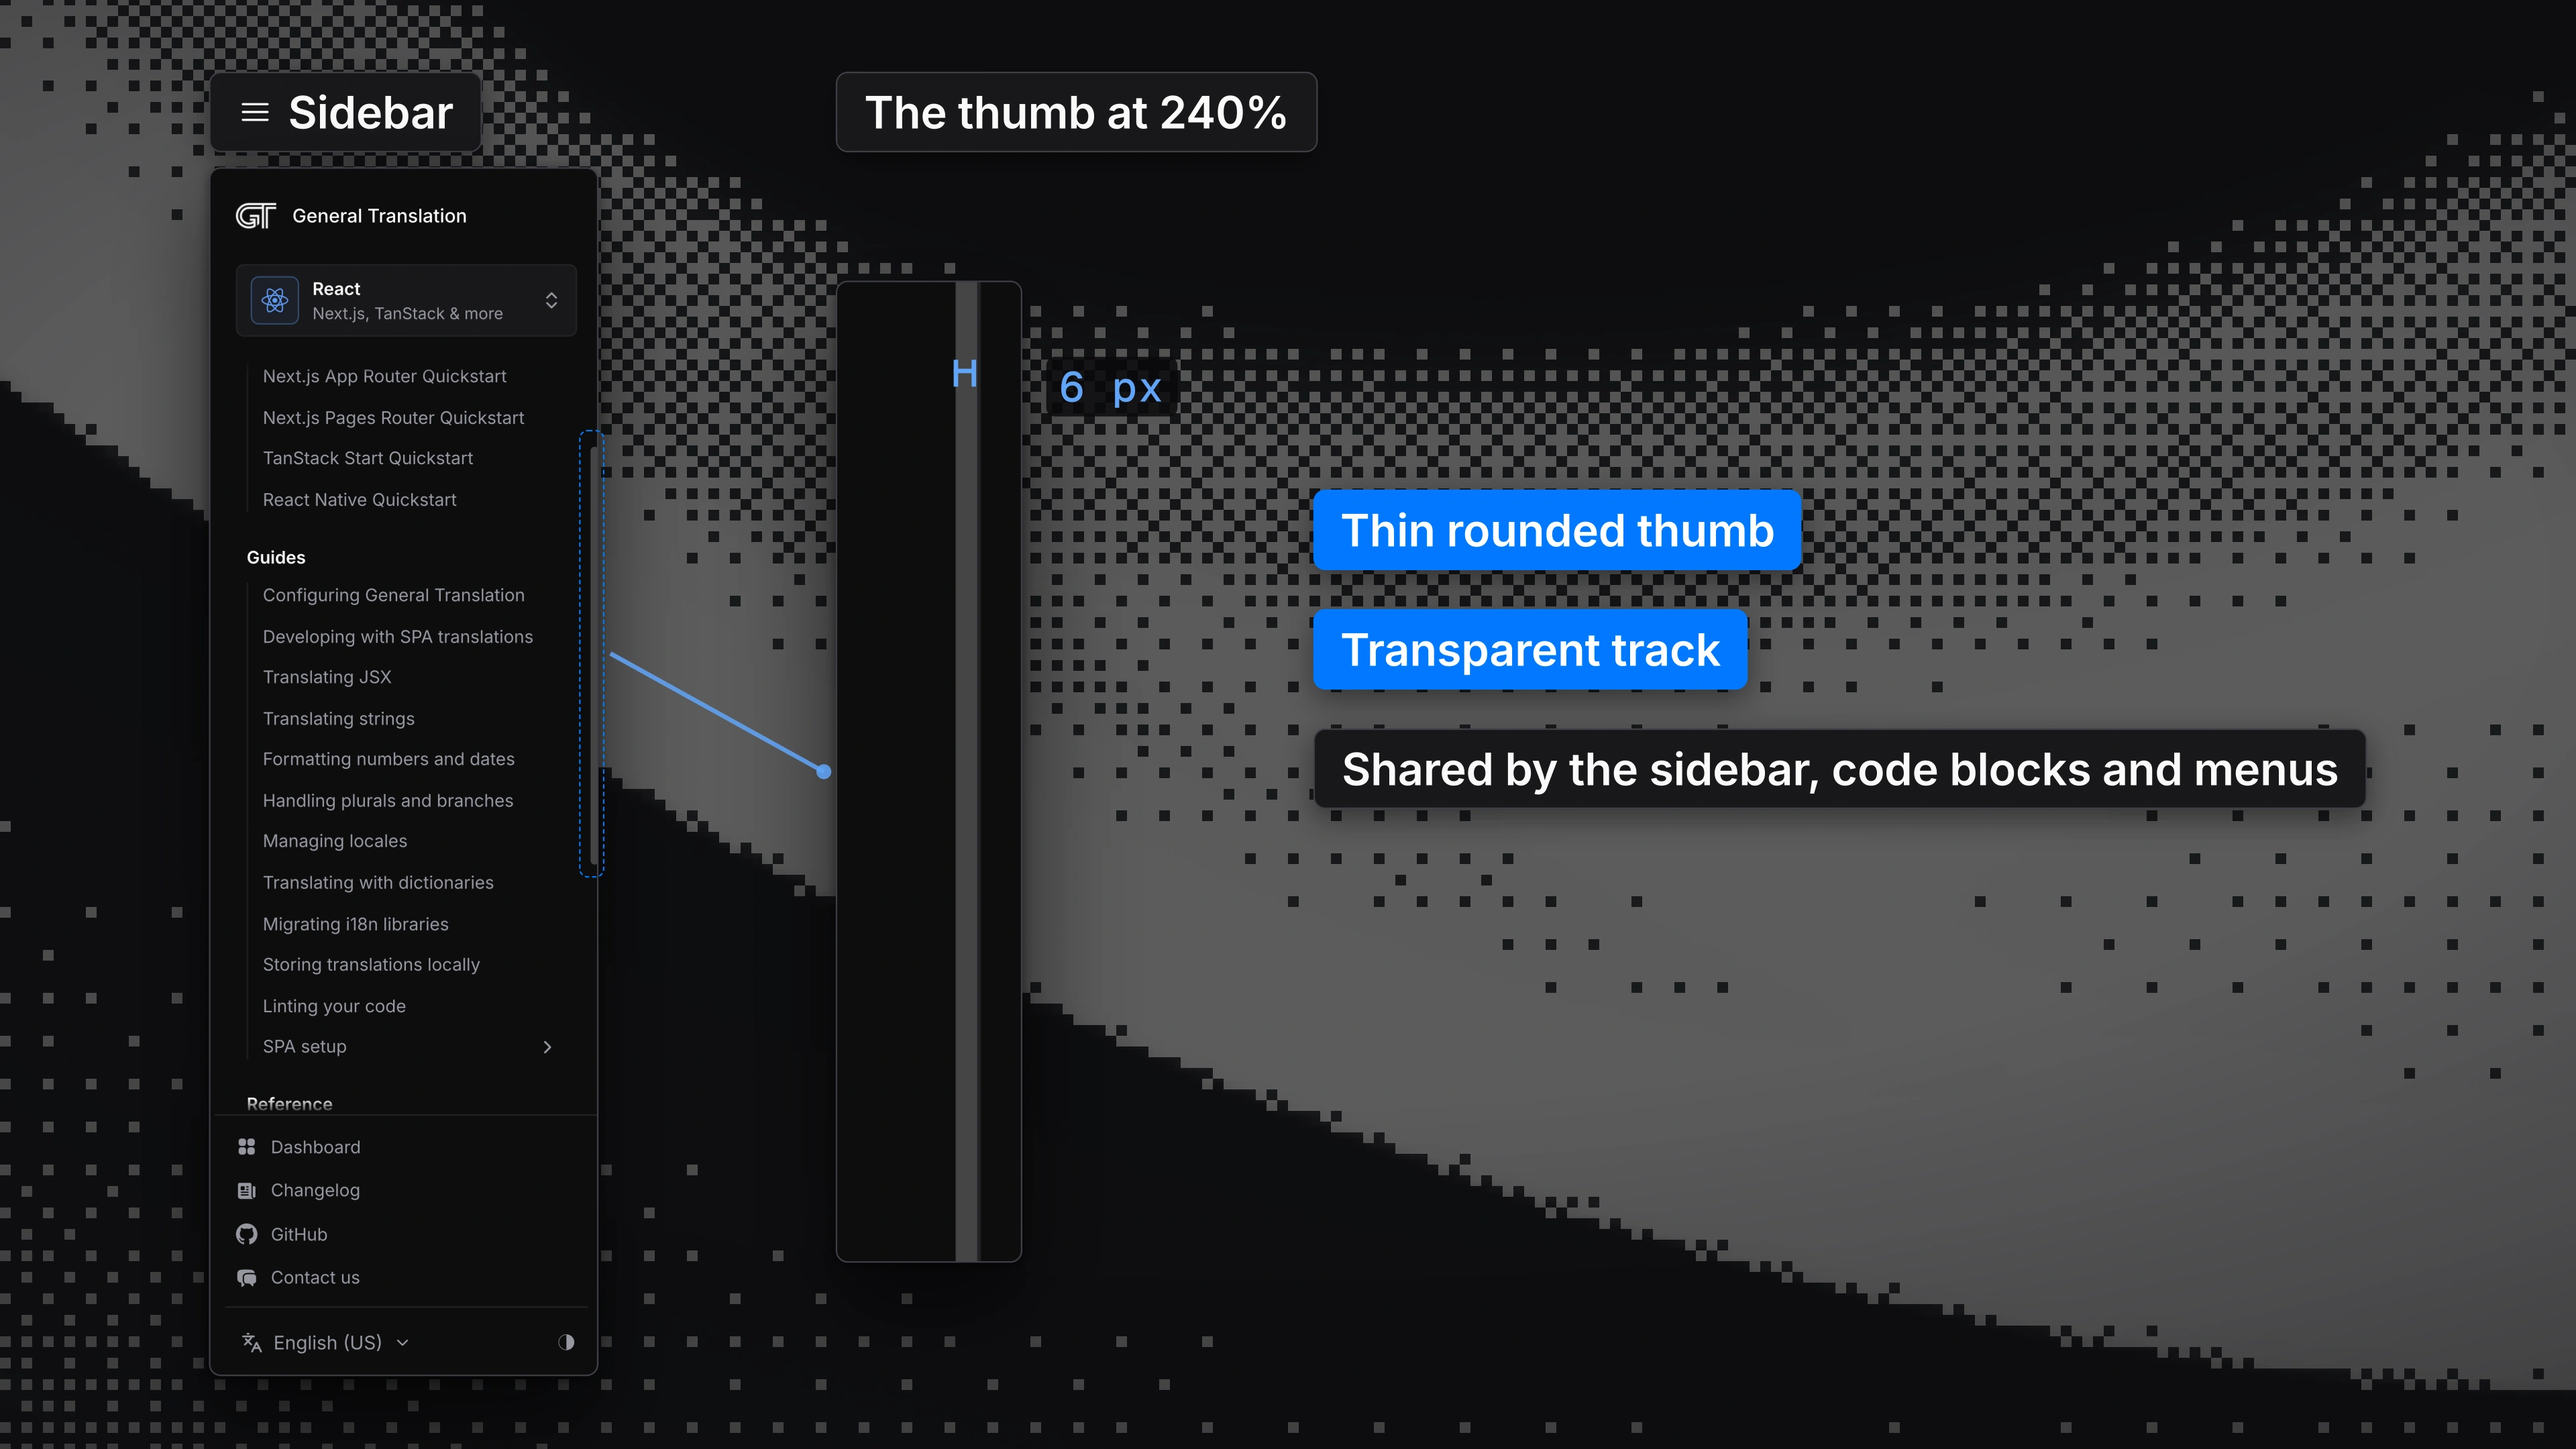
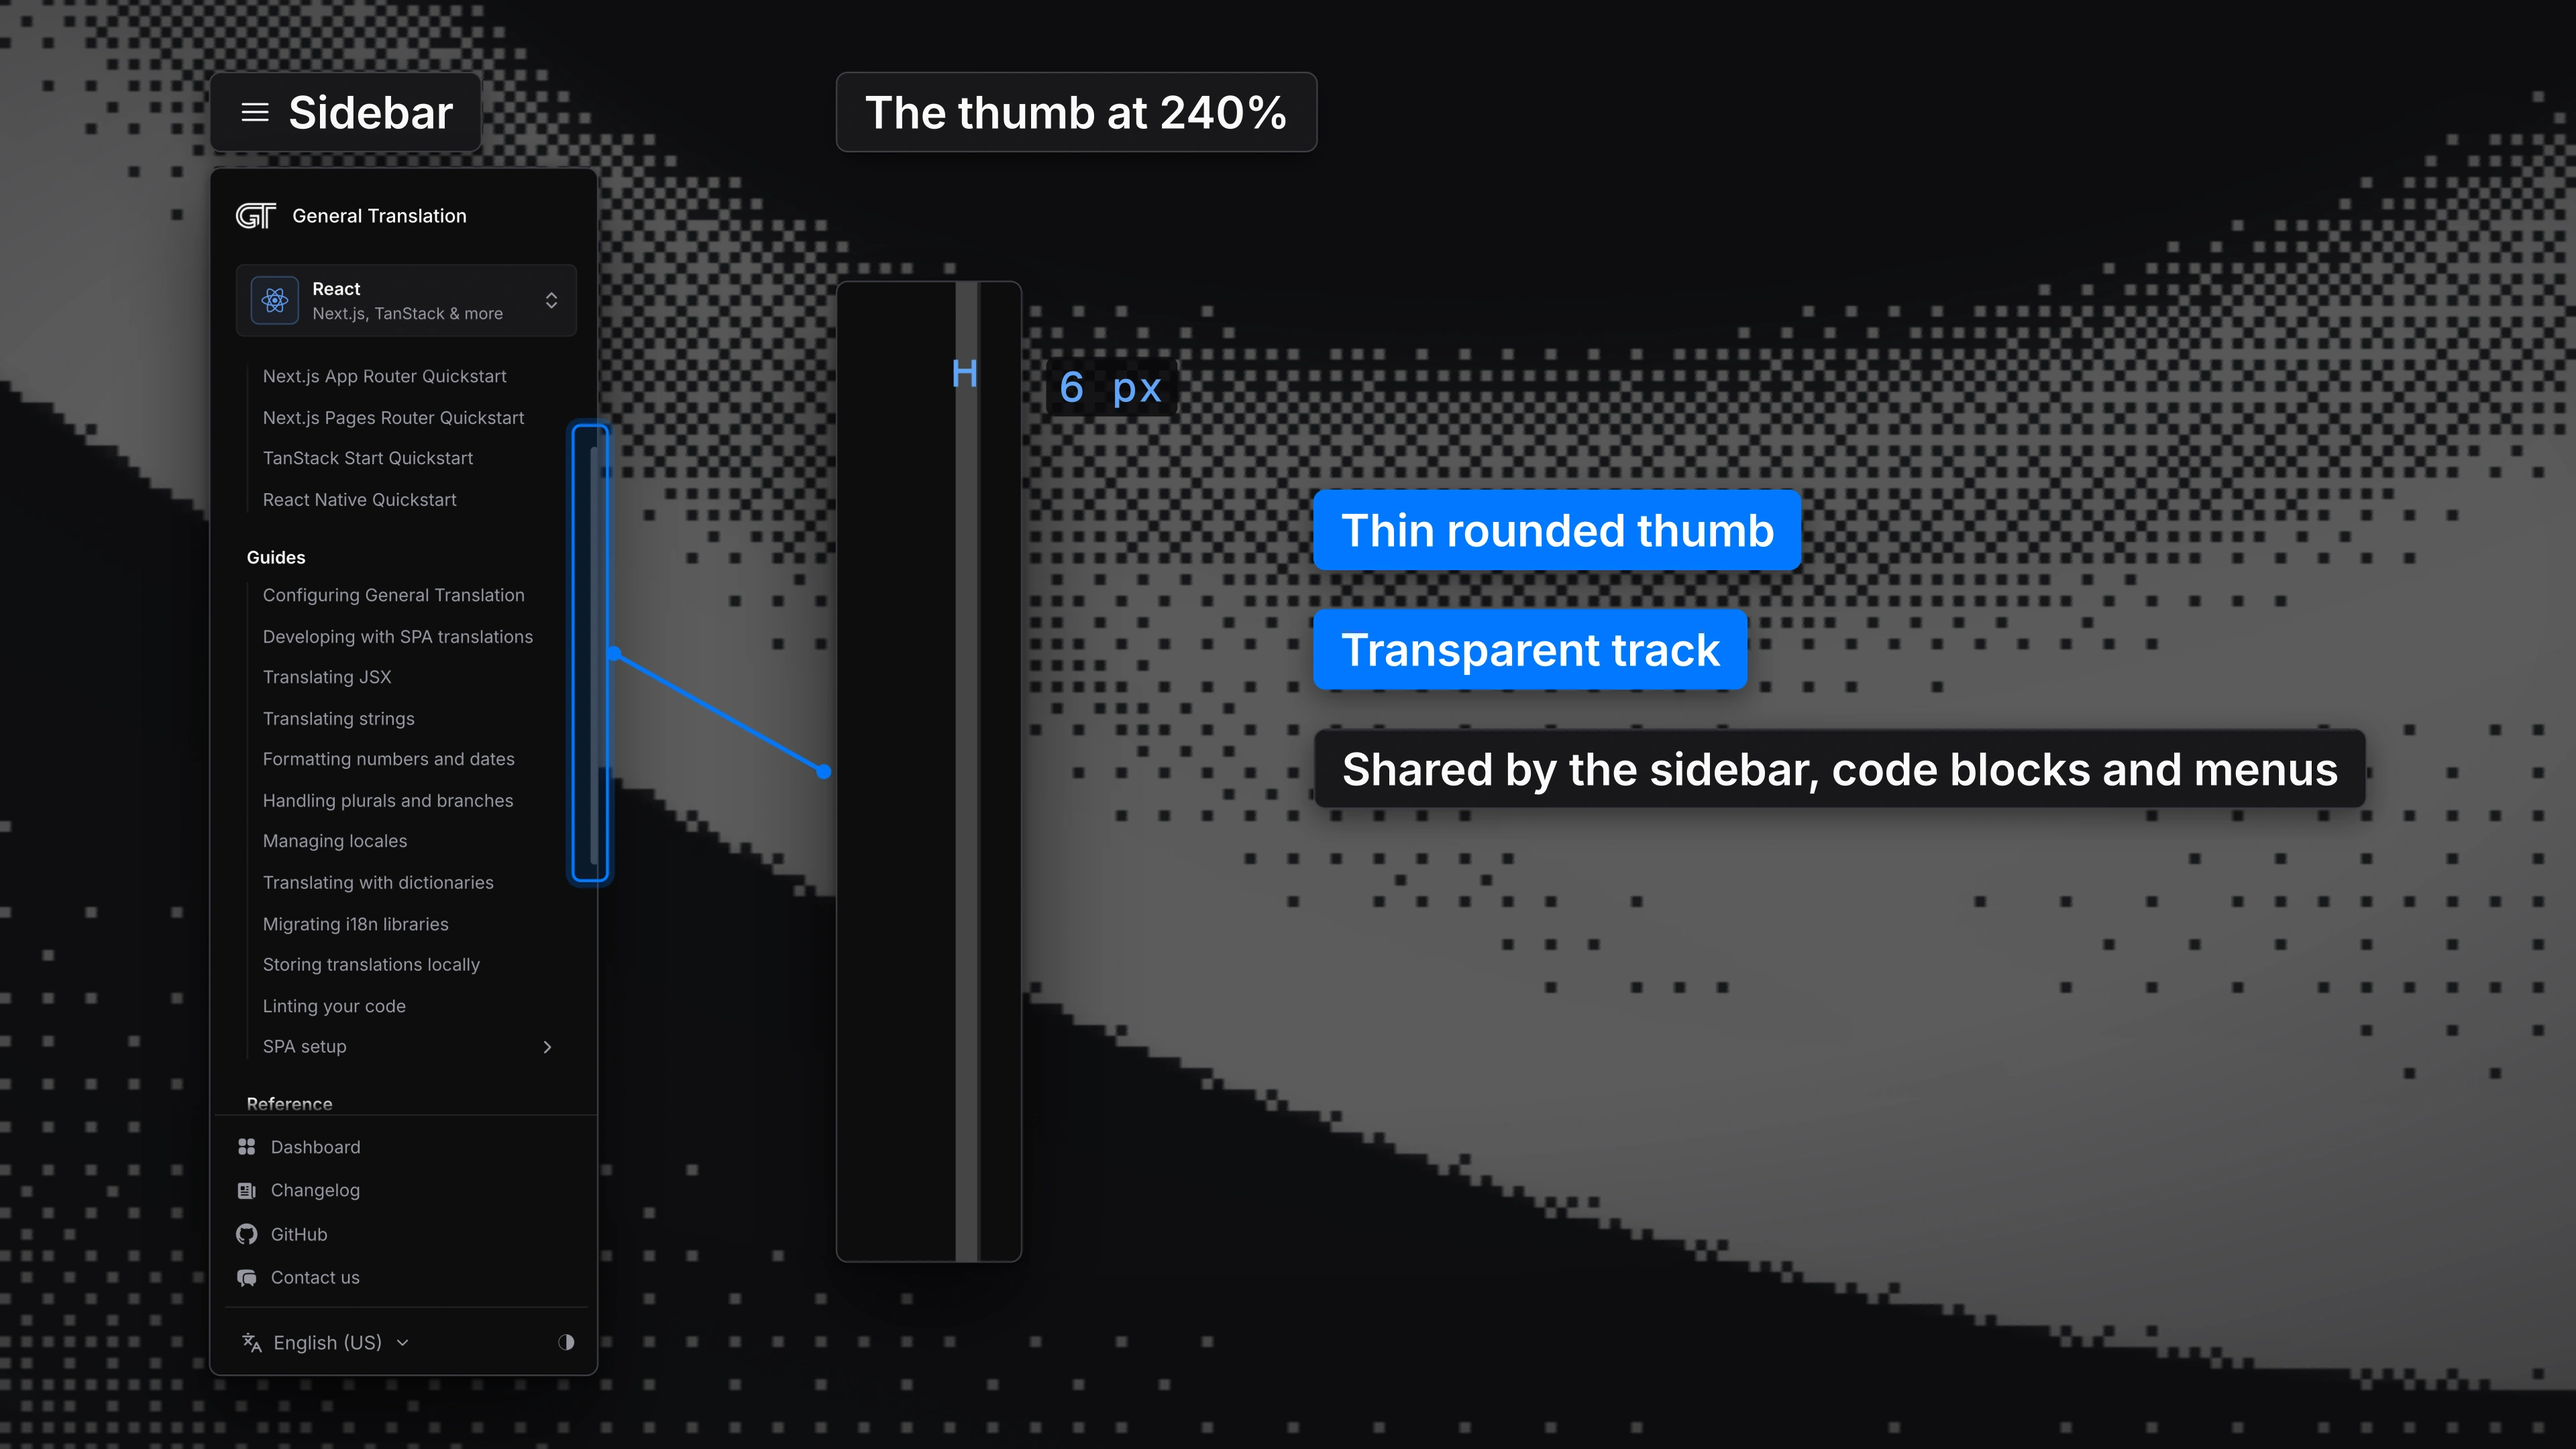
Scrollbar slide: a solid marker on the thumb

diff --git a/graphics/build/gen-visuals.js b/graphics/build/gen-visuals.js
@@ -339,10 +339,11 @@ add('E5-localized', 'E', 'Localized', 'u56', 'The same Introduction page in Engl
 add('E7-quiet-scrollbar', 'E', 'Quiet scrollbar', 'silk4', 'The React reference sidebar with its scrollbar: a thin rounded thumb on a transparent track, enlarged beside it and measured; the same bar runs in code blocks and menus.', () => {
   let h = ''; const s = 0.9, X = 140, Y = 84; const o = org(X, Y, { x: 0, y: 0 });
   h += tag('Sidebar', 'bars-3', X, 20, 'dark'); h += crop('sidebarScroll', N.sidebar, { x: X, y: Y, s });
-  const thumb = { x: 280, y: 200, w: 10, h: 324 }; h += hl(o, s, thumb, { pad: 4, dashed: true, style: 'box-shadow:none;border-width:1.5px' });
+  // a solid, filled marker with the set's glow: a dashed hairline over the dark sidebar was too faint to find
+  const thumb = { x: 277, y: 198, w: 14, h: 328 }; h += hl(o, s, thumb, { pad: 6, fill: true, style: 'border-width:2.5px' });
   const D = 2.4, det = { x: 262, y: 236, w: 28, h: 250 }, DX = 560, DY = Y + (PH(N.sidebar, s, 0) - PH(det, D)) / 2;
   h += tag('The thumb at 240%', null, DX, 20, 'dark'); h += crop('sidebarScroll', det, { x: DX, y: DY, s: D, r: 8 });
-  h += line(X + (thumb.x + thumb.w) * s + 8, Y + (thumb.y + thumb.h / 2) * s, DX - 8, DY + PH(det, D) / 2, { color: 'rgba(96,165,250,.85)', w: 3, end: true });
+  h += line(X + (thumb.x + thumb.w + 6) * s + 4, Y + (thumb.y + thumb.h / 2) * s, DX - 8, DY + PH(det, D) / 2, { color: 'rgba(0,120,255,.95)', w: 3, start: true, end: true });
   // the thumb is 6 CSS px wide: a ruler across it at the enlargement, labelled
   const tx = DX + (283 - det.x + PAD) * D, ty = DY + PAD * D + 30, tw = 6 * D;
   h += `<div class="rulerh" style="left:${px(tx)};top:${px(ty)};width:${px(tw)}"></div>`; h += `<div class="measure" style="left:${px(DX + PW(det, D) + 16)};top:${px(ty + 6)}">6 px</div>`;
